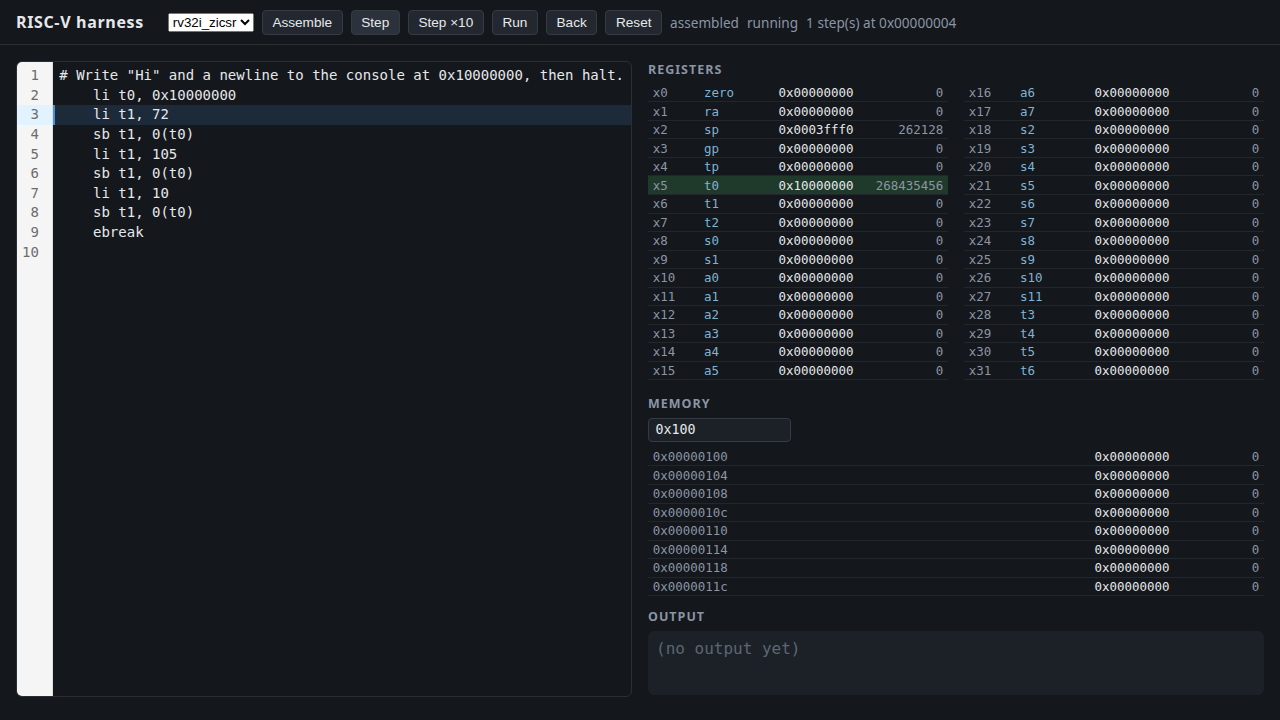
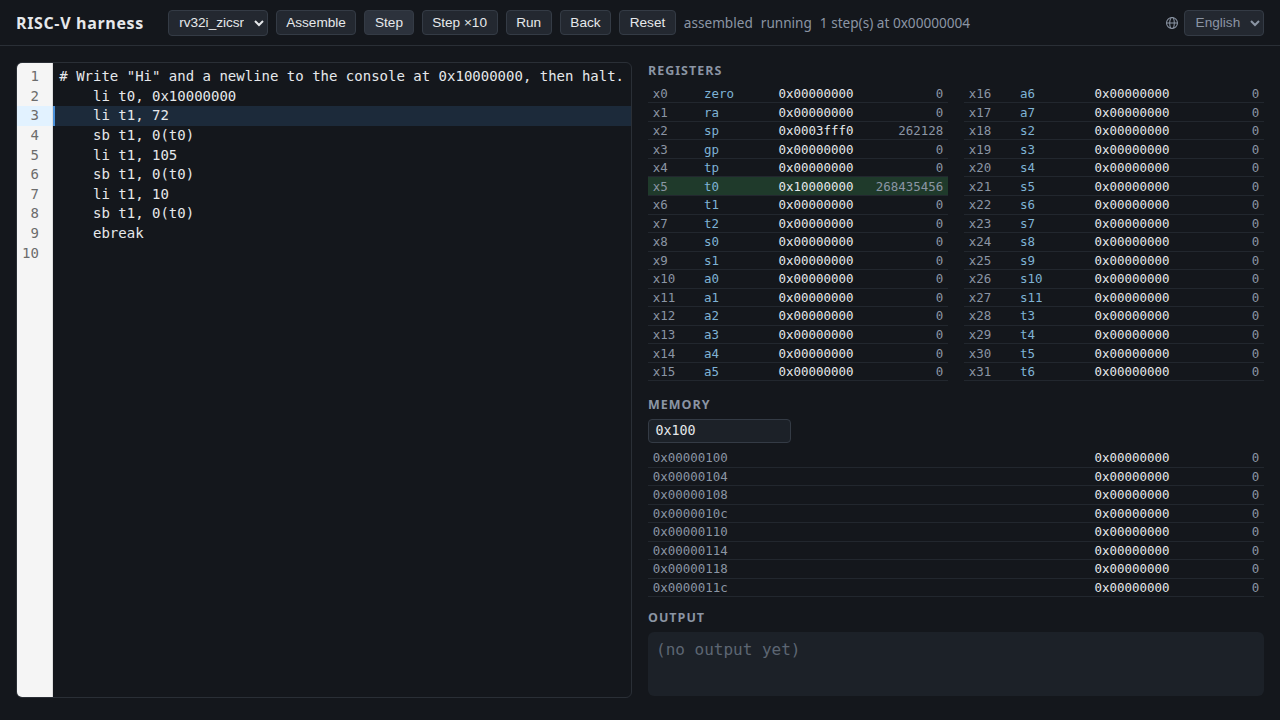
feat: switch the playground's content locale
`Engine.setLocale` and the `zh-CN` overlays existed, but nothing called them:
the page declared `lang="zh-CN"` while every string came from English.

Read the choice from `?lang=`, so a link can pin it and the browser suite can
check it, and re-apply it whenever a session is rebuilt for an ISA switch.
Picking a locale writes it back to the query and to `<html lang>`.

The control sits at the right edge of the header behind an inline SVG globe,
where a site normally keeps its language switch, instead of in the row of ISA
buttons where it read as another target. Options are labelled in their own
language (`English`, `中文`) while the values stay `en` and `zh-CN`. It is
inline SVG because the project has no icon package, and one three-path glyph
does not justify the first dependency, its lockfile entry and its notice in
`THIRD_PARTY.md`. Both selects now share a rule that matches the button
palette; the default white select was the only light control on the page.

Only hover text is translated today, and the page has no hover view yet, so
the switch changes what the engine would answer rather than anything on
screen. The static document declares `en`, which is the default. The
screenshot is regenerated.

diff --git a/web/src/App.svelte b/web/src/App.svelte
@@ -16,6 +16,11 @@
 
   const EMPTY_REGS = new Array<number>(32).fill(0);
 
+  // The overlays that exist under `content/overlay/`; `rvh-content` normalizes
+  // anything else to English.
+  const LOCALES = ['en', 'zh-CN'] as const;
+  type Locale = (typeof LOCALES)[number];
+
   const NAMES = [
     'zero', 'ra', 'sp', 'gp', 'tp', 't0', 't1', 't2', 's0', 's1', 'a0', 'a1', 'a2', 'a3', 'a4',
     'a5', 'a6', 'a7', 's2', 's3', 's4', 's5', 's6', 's7', 's8', 's9', 's10', 's11', 't3', 't4',
@@ -24,6 +29,7 @@
 
   let engine = $state(null as Engine | null);
   let target = $state('rv32i_zicsr');
+  let locale = $state(readLocale());
   let editor: Editor | null = null;
   let editorHost: HTMLDivElement;
   let machine = $state(null as MachineState | null);
@@ -50,8 +56,9 @@
   let halted = $derived(machine?.halt ? `halted: ${machine.halt}` : 'running');
 
   onMount(async () => {
+    document.documentElement.lang = locale;
     try {
-      engine = await Engine.load(target);
+      engine = await createEngine(target);
       editor = createEditor(editorHost, SAMPLE, () => analyze());
       analyze();
     } catch (error) {
@@ -75,6 +82,32 @@
     }
   }
 
+  /// The locale comes from `?lang=`, so a link can pin it and the browser suite
+  /// can check it. Unknown values fall back to English, as `rvh-content` does.
+  function readLocale(): Locale {
+    const requested = new URLSearchParams(location.search).get('lang');
+    return LOCALES.find((name) => name.toLowerCase() === requested?.toLowerCase()) ?? 'en';
+  }
+
+  /// A new session starts in English, so every rebuild has to re-apply it.
+  async function createEngine(next: string): Promise<Engine> {
+    const created = await Engine.load(next);
+    created.setLocale(locale);
+    return created;
+  }
+
+  /// Switch the content locale, then reflect it in the URL and in `<html lang>`.
+  /// Only hover text is translated today, and this page has no hover view yet,
+  /// so the switch becomes visible once that view lands.
+  function pickLocale(next: string) {
+    locale = LOCALES.find((name) => name === next) ?? 'en';
+    engine?.setLocale(locale);
+    const url = new URL(location.href);
+    url.searchParams.set('lang', locale);
+    history.replaceState(null, '', url);
+    document.documentElement.lang = locale;
+  }
+
   /// Switch the ISA: a new session, then re-assemble the same text.
   async function pickTarget(next: string) {
     if (!engine || next === target) {
@@ -83,7 +116,7 @@
     const source = editor?.text() ?? SAMPLE;
     const previous = engine;
     try {
-      engine = await Engine.load(next);
+      engine = await createEngine(next);
       target = next;
       previous.dispose();
       editor?.setText(source);
@@ -167,6 +200,17 @@
     <span class="halt">{halted}</span>
     <span class="steps">{machine ? `${machine.steps} step(s) at ${hex(machine.pc)}` : ''}</span>
   </div>
+  <label class="locale-picker" title="Content locale: hover text">
+    <svg viewBox="0 0 16 16" width="14" height="14" aria-hidden="true">
+      <circle cx="8" cy="8" r="6.25" />
+      <ellipse cx="8" cy="8" rx="2.6" ry="6.25" />
+      <path d="M1.75 8h12.5" />
+    </svg>
+    <select class="locale" aria-label="Content locale" onchange={(event) => pickLocale(event.currentTarget.value)}>
+      <option value="en" selected={locale === 'en'}>English</option>
+      <option value="zh-CN" selected={locale === 'zh-CN'}>中文</option>
+    </select>
+  </label>
 </header>
 
 <main>
@@ -271,6 +315,32 @@
     gap: 0.5rem;
     flex-wrap: wrap;
     font-size: 0.85rem;
+  }
+
+  select {
+    background: #232830;
+    color: inherit;
+    border: 1px solid #343b45;
+    border-radius: 4px;
+    padding: 0.22rem 0.4rem;
+    font-size: 0.85rem;
+  }
+
+  /* The globe sits at the right edge; `margin-left: auto` is what pins it there
+     while the toolbar keeps growing to its left. */
+  .locale-picker {
+    display: flex;
+    align-items: center;
+    gap: 0.35rem;
+    margin-left: auto;
+    color: #8b95a4;
+  }
+
+  .locale-picker svg {
+    flex: none;
+    fill: none;
+    stroke: currentColor;
+    stroke-width: 1.2;
   }
 
   button {

diff --git a/web/e2e/playground.spec.ts b/web/e2e/playground.spec.ts
@@ -140,6 +140,21 @@ test('the target selector decides which instructions are legal', async ({ page }
   await expect(page.locator('.diagnostics')).toHaveCount(0);
 });
 
+test('the locale selector follows the URL', async ({ page }) => {
+  const errors = collectErrors(page);
+  await page.goto('/?lang=zh-CN');
+  await expect(page.locator('.status')).toHaveText('assembled');
+  await expect(page.locator('.locale')).toHaveValue('zh-CN');
+  await expect(page.locator('html')).toHaveAttribute('lang', 'zh-CN');
+
+  // Switching rewrites the query so the choice survives a reload.
+  await page.selectOption('.locale', 'en');
+  await expect(page.locator('html')).toHaveAttribute('lang', 'en');
+  await expect(page).toHaveURL(/[?&]lang=en(&|$)/);
+
+  expect(errors).toEqual([]);
+});
+
 test('typing does not move the cursor', async ({ page }) => {
   await assemble(page);
   const content = page.locator('.cm-content');

diff --git a/web/index.html b/web/index.html
@@ -1,5 +1,5 @@
 <!doctype html>
-<html lang="zh-CN">
+<html lang="en">
   <head>
     <meta charset="utf-8" />
     <meta name="viewport" content="width=device-width, initial-scale=1" />
